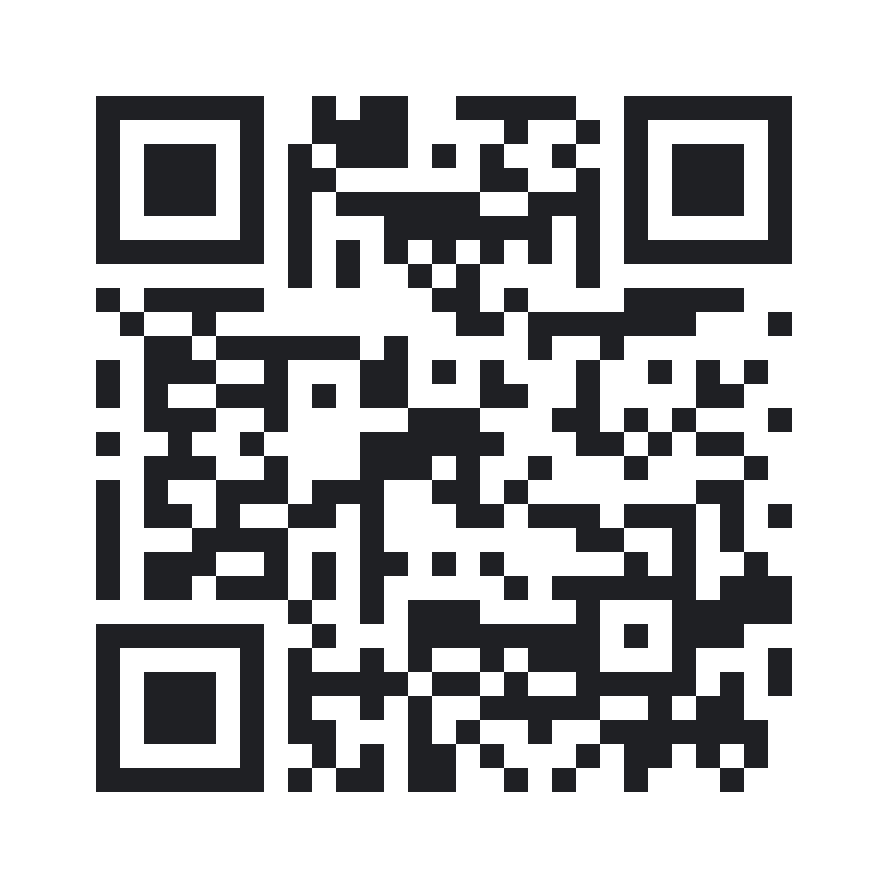
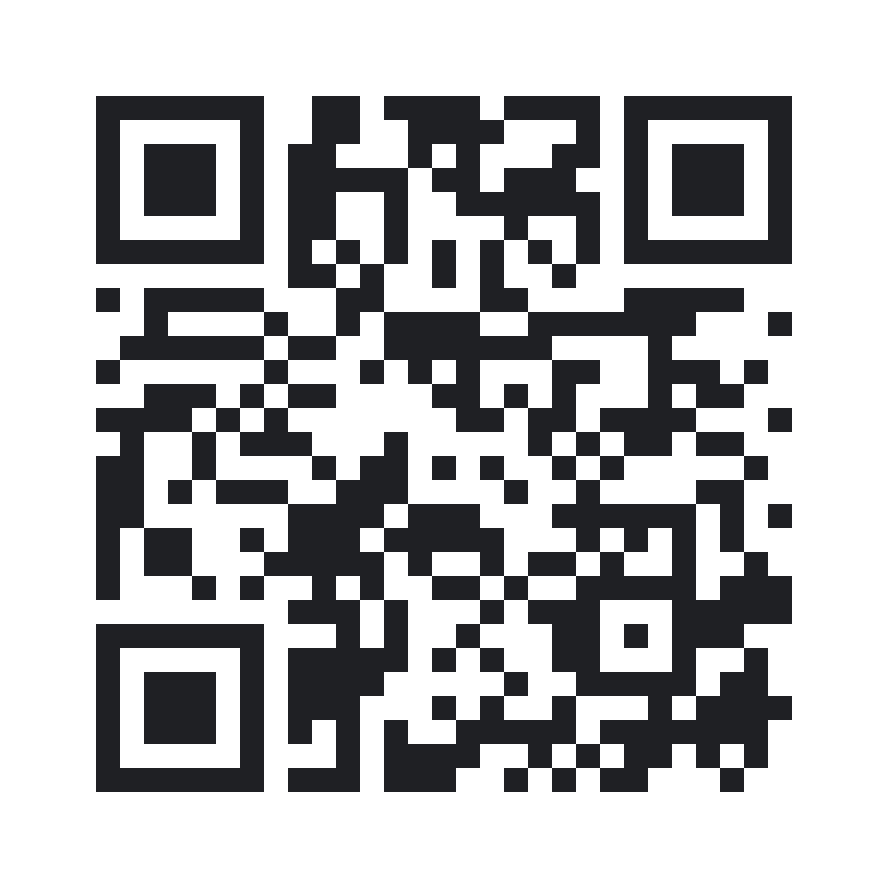
Cambio de dominio: kpk.associates → kpkwellness.com (#51)
* feat: unlock all 20 recipes (no access code required)

Add every recipe id to freeRecipes so the recipes page shows all 20
dishes in full to every visitor. Previously only 3 were free and the
other 17 were gated behind an access code that could not be redeemed
(the Worker has no /verify-access endpoint), making them unreadable.

All existing recipes are kept; only the free/locked config changed.

Claude-Session: https://claude.ai/code/session_014P2hn7681L42VPigtzrpuH

* feat: allFree flag + Silver agent recipe-publishing spec

Add an allFree flag to recipe-config.json (honored by recipes.js) so the
whole collection is unlocked and newly published recipes are visible
immediately, without a second commit to freeRecipes.

Document how Karina's OpenAI agent (Silver) publishes recipes from
ChatGPT to the live site via the Worker's existing /commit endpoint,
which already accepts plain markdown and commits it to main. Includes
the recipe format contract, a GPT Action OpenAPI schema, and the agent
instructions. No secrets are stored here.

Claude-Session: https://claude.ai/code/session_014P2hn7681L42VPigtzrpuH

* feat: propuesta Casa de la Cultura Playas como pagina privada

Agrega /playas/ayuntamiento-cultural con la propuesta comercial de Karina
Paz Kennedy para operar un bar gastronomico en Casa de la Cultura Playas,
mas el PDF descargable.

La pagina lleva noindex/nofollow y no se enlaza desde ningun menu: es un
[…]

diff --git a/card/index.html b/card/index.html
@@ -21,9 +21,9 @@
 <meta property="og:title" content="Karina Paz Kennedy · KPK Wellness">
 <meta property="og:description" content="Chef, Yoga Instructor & Wellness Host. Eat well. Move with intention. Live beautifully.">
 <meta property="og:type" content="profile">
-<meta property="og:url" content="https://kpk.associates/card/">
-<meta property="og:image" content="https://kpk.associates/card/og-card.jpg">
-<meta property="og:image:secure_url" content="https://kpk.associates/card/og-card.jpg">
+<meta property="og:url" content="https://kpkwellness.com/card/">
+<meta property="og:image" content="https://kpkwellness.com/card/og-card.jpg">
+<meta property="og:image:secure_url" content="https://kpkwellness.com/card/og-card.jpg">
 <meta property="og:image:type" content="image/jpeg">
 <meta property="og:image:width" content="1200">
 <meta property="og:image:height" content="630">
@@ -31,7 +31,7 @@
 <meta name="twitter:card" content="summary_large_image">
 <meta name="twitter:title" content="Karina Paz Kennedy · KPK Wellness">
 <meta name="twitter:description" content="Chef, Yoga Instructor & Wellness Host.">
-<meta name="twitter:image" content="https://kpk.associates/card/og-card.jpg">
+<meta name="twitter:image" content="https://kpkwellness.com/card/og-card.jpg">
 
 <link rel="preconnect" href="https://fonts.googleapis.com">
 <link rel="preconnect" href="https://fonts.gstatic.com" crossorigin>
@@ -344,15 +344,15 @@
         <span class="link__chev"><svg width="16" height="16" viewBox="0 0 24 24" fill="none" stroke="currentColor" stroke-width="2.2" stroke-linecap="round" stroke-linejoin="round"><path d="M9 18l6-6-6-6"/></svg></span>
       </a>
 
-      <a class="link fade" style="animation-delay:.36s" href="mailto:karina@kpk.associates">
+      <a class="link fade" style="animation-delay:.36s" href="mailto:karina@kpkwellness.com">
         <span class="link__icon" style="color:var(--accent)"><svg viewBox="0 0 24 24" fill="none" stroke="currentColor" stroke-width="1.9" stroke-linecap="round" stroke-linejoin="round"><rect x="2" y="4" width="20" height="16" rx="2.5"/><path d="m3 6 9 7 9-7"/></svg></span>
-        <span class="link__txt"><b>Email</b><span>karina@kpk.associates</span></span>
+        <span class="link__txt"><b>Email</b><span>karina@kpkwellness.com</span></span>
         <span class="link__chev"><svg width="16" height="16" viewBox="0 0 24 24" fill="none" stroke="currentColor" stroke-width="2.2" stroke-linecap="round" stroke-linejoin="round"><path d="M9 18l6-6-6-6"/></svg></span>
       </a>
 
       <a class="link fade" style="animation-delay:.42s" href="/" target="_blank" rel="noopener">
         <span class="link__icon" style="color:var(--accent)"><svg viewBox="0 0 24 24" fill="none" stroke="currentColor" stroke-width="1.9" stroke-linecap="round" stroke-linejoin="round"><circle cx="12" cy="12" r="10"/><path d="M2 12h20M12 2a15.3 15.3 0 0 1 4 10 15.3 15.3 0 0 1-4 10 15.3 15.3 0 0 1-4-10 15.3 15.3 0 0 1 4-10z"/></svg></span>
-        <span class="link__txt"><b>Website</b><span>kpk.associates</span></span>
+        <span class="link__txt"><b>Website</b><span>kpkwellness.com</span></span>
         <span class="link__chev"><svg width="16" height="16" viewBox="0 0 24 24" fill="none" stroke="currentColor" stroke-width="2.2" stroke-linecap="round" stroke-linejoin="round"><path d="M9 18l6-6-6-6"/></svg></span>
       </a>
     </div>
@@ -522,7 +522,7 @@
         'ORG:KPK Wellness Associates',
         'TITLE:Chef, Yoga Instructor & Wellness Host',
         'TEL;TYPE=CELL:+526643640788',
-        'EMAIL;TYPE=INTERNET:karina@kpk.associates',
+        'EMAIL;TYPE=INTERNET:karina@kpkwellness.com',
         'URL:https://www.instagram.com/karinapazk/'
       ];
       if (photoLine) lines.push(photoLine);

diff --git a/cotizacion.html b/cotizacion.html
@@ -1860,7 +1860,7 @@
     var fin = c.fin || c.inicio;
     var lineas = [
       "BEGIN:VCALENDAR", "VERSION:2.0", "PRODID:-//KPK Wellness//Cotizador//ES", "BEGIN:VEVENT",
-      "UID:" + c.slug + "@kpk.associates",
+      "UID:" + c.slug + "@kpkwellness.com",
       "DTSTART:" + fmt(c.inicio), "DTEND:" + fmt(fin),
       "SUMMARY:" + tx(c.titulo, L) + " · Chef Karina Paz Kennedy",
       "LOCATION:" + tx(c.lugar, L),
@@ -1870,7 +1870,7 @@
     return "data:text/calendar;charset=utf-8," + encodeURIComponent(lineas.join("\r\n"));
   }
 
-  /* "Enviar cotización": correo (Resend, desde karina@kpk.associates) y
+  /* "Enviar cotización": correo (Resend, desde karina@kpkwellness.com) y
      WhatsApp (se abre en su teléfono con el mensaje escrito) en un solo paso. */
   function enviarAlCliente() {
     var c = cotizacionActiva();
@@ -1892,7 +1892,7 @@
         '<label class="env-op"><input type="checkbox" name="wa"' + (tel ? " checked" : " disabled") + "> WhatsApp" +
           "<small>" + (tel ? "+" + esc(tel) : "Falta el WhatsApp del cliente (Editar → Evento)") + "</small></label>" +
         '<label class="env-op"><input type="checkbox" name="correo"' + (correo ? " checked" : " disabled") + "> Correo" +
-          "<small>" + (correo ? esc(correo) + " · sale desde karina@kpk.associates" : "Falta el correo del cliente (Editar → Evento)") + "</small></label>" +
+          "<small>" + (correo ? esc(correo) + " · sale desde karina@kpkwellness.com" : "Falta el correo del cliente (Editar → Evento)") + "</small></label>" +
         '<label>Mensaje<textarea name="mensaje" rows="4" style="font:inherit;font-size:16px;padding:10px 12px;border:1px solid var(--linea);border-radius:10px;width:100%;box-sizing:border-box">' + esc(texto) + "</textarea></label>" +
         '<p class="fac-nota" style="font-size:.84rem">Si hiciste cambios, guarda antes: el cliente abre la versión publicada.</p>' +
         '<p class="fac-aviso" role="status" hidden></p>' +
@@ -2212,7 +2212,7 @@
             bi("Asunto", (chef.correoReserva || {}).asunto, "chef.correoReserva.asunto") +
             bi("Cuerpo · puedes usar {nombre} {evento} {fecha} {horario} {lugar} {anticipo}", (chef.correoReserva || {}).cuerpo, "chef.correoReserva.cuerpo") +
             '<div class="aviso">Vacío = se usa el texto sugerido ("Recibimos tu anticipo. Tu fecha queda reservada… Nos vemos ahí."). ' +
-              "Sale desde karina@kpk.associates; las respuestas del cliente llegan a tu correo.</div>" +
+              "Sale desde karina@kpkwellness.com; las respuestas del cliente llegan a tu correo.</div>" +
             '<div class="marca">Tu foto</div>' + fotoCampo(chef.foto, "chef.foto") +
             '<div class="aviso">Abajo de cada cotización apareces tú: "Hola, soy Karina Kennedy". Las preguntas que ' +
               "ve el cliente son estas; si las dejas vacías se usan las sugeridas.</div>" +

diff --git a/index.html b/index.html
@@ -9,9 +9,9 @@
 <meta property="og:title" content="KPK Wellness — Karina Paz Kennedy">
 <meta property="og:description" content="Chef, Yoga Instructor & Wellness Host. Eat well. Move with intention. Live beautifully.">
 <meta property="og:type" content="website">
-<meta property="og:url" content="https://kpk.associates/">
-<meta property="og:image" content="https://kpk.associates/card/og-card.jpg">
-<meta property="og:image:secure_url" content="https://kpk.associates/card/og-card.jpg">
+<meta property="og:url" content="https://kpkwellness.com/">
+<meta property="og:image" content="https://kpkwellness.com/card/og-card.jpg">
+<meta property="og:image:secure_url" content="https://kpkwellness.com/card/og-card.jpg">
 <meta property="og:image:type" content="image/jpeg">
 <meta property="og:image:width" content="1200">
 <meta property="og:image:height" content="630">
@@ -19,7 +19,7 @@
 <meta name="twitter:card" content="summary_large_image">
 <meta name="twitter:title" content="KPK Wellness — Karina Paz Kennedy">
 <meta name="twitter:description" content="Chef, Yoga Instructor & Wellness Host.">
-<meta name="twitter:image" content="https://kpk.associates/card/og-card.jpg">
+<meta name="twitter:image" content="https://kpkwellness.com/card/og-card.jpg">
 <link rel="preconnect" href="https://fonts.googleapis.com">
 <link rel="preconnect" href="https://fonts.gstatic.com" crossorigin>
 <link href="https://fonts.googleapis.com/css2?family=Cormorant+Garamond:ital,wght@0,400;0,500;0,600;0,700;1,400;1,500&family=Inter:wght@300;400;500;600;700&display=swap" rel="stylesheet">
@@ -421,7 +421,7 @@
         <div class="footer-socials">
           <a href="https://www.instagram.com/karinapazk/" class="social-link" aria-label="Instagram" target="_blank">📷</a>
           <a href="https://wa.me/526643640788" class="social-link" aria-label="WhatsApp" target="_blank">💬</a>
-          <a href="mailto:join@kpk.associates" class="social-link" aria-label="Email">✉</a>
+          <a href="mailto:join@kpkwellness.com" class="social-link" aria-label="Email">✉</a>
         </div>
         <div class="footer-tagline">
           <span lang="en">Eat well. Move with intention. Live beautifully.</span>
@@ -449,7 +449,7 @@
       <div class="footer-col">
         <h4 lang="en">Contact</h4><h4 lang="es">Contacto</h4>
         <ul>
-          <li><a href="mailto:join@kpk.associates">join@kpk.associates</a></li>
+          <li><a href="mailto:join@kpkwellness.com">join@kpkwellness.com</a></li>
           <li><a href="https://wa.me/526643640788" target="_blank">WhatsApp</a></li>
           <li><a href="https://www.instagram.com/karinapazk/" target="_blank">Instagram</a></li>
           <li><a href="#contact" lang="en">Book Now</a><a href="#contact" lang="es">Reservar</a></li>

diff --git a/functions/_lib/correo.js b/functions/_lib/correo.js
@@ -29,14 +29,14 @@ export function correoDe(c, chef, extra) {
   const plantilla = chef?.correoReserva || {};
   const asunto = rellenar(tx(plantilla.asunto, L) || tx(PLANTILLA_BASE.asunto, L), c, L, extra);
   const texto = rellenar(tx(plantilla.cuerpo, L) || tx(PLANTILLA_BASE.cuerpo, L), c, L, extra);
-  const enlace = `https://kpk.associates/cotizacion?c=${encodeURIComponent(c.slug)}-view`;
+  const enlace = `https://kpkwellness.com/cotizacion?c=${encodeURIComponent(c.slug)}-view`;
   const html = `<!doctype html><html><body style="margin:0;background:#F7F5F1;font-family:Inter,-apple-system,Helvetica,Arial,sans-serif;color:#1F2024">
 <div style="max-width:560px;margin:0 auto;padding:28px 20px">
   <div style="width:40px;height:2px;background:#7A9E8E;margin-bottom:18px"></div>
   <div style="font-family:'Cormorant Garamond',Georgia,serif;font-size:28px;font-weight:600;line-height:1.1;margin-bottom:18px">${esc(tx(c.titulo, L))}</div>
   <div style="white-space:pre-wrap;font-size:16px;line-height:1.6">${esc(texto)}</div>
   <p style="margin:26px 0 0"><a href="${esc(enlace)}" style="color:#4F7566">${L === 'en' ? 'See the quote' : 'Ver la cotización'}</a></p>
-  <p style="margin:26px 0 0;font-size:12px;color:#5C5E66">${esc(chef?.nombre || 'Chef Karina Paz Kennedy')} · kpk.associates</p>
+  <p style="margin:26px 0 0;font-size:12px;color:#5C5E66">${esc(chef?.nombre || 'Chef Karina Paz Kennedy')} · kpkwellness.com</p>
 </div></body></html>`;
   return { asunto, texto, html };
 }
@@ -80,7 +80,7 @@ export function correoCotizacion(c, chef, { L = 'es', enlace, imagen, anticipo, 
       <p style="margin:12px 0 0"><a href="${esc(enlace)}&pdf=1" style="color:#4F7566;font-weight:600;font-size:14px">${esc(T.pdf)}</a></p>
       <p style="font-size:14px;color:#55565B;margin:22px 0 0">${esc(T.dudas)}</p>
       <p style="font-family:'Cormorant Garamond',Georgia,serif;font-size:20px;margin:18px 0 0">${esc(firma)}</p>
-      <p style="font-size:12px;color:#8A8B90;margin:4px 0 0">kpk.associates</p>
+      <p style="font-size:12px;color:#8A8B90;margin:4px 0 0">kpkwellness.com</p>
     </div>
   </div>
 </div></body></html>`;
@@ -93,7 +93,7 @@ export async function enviarResend(env, { para, asunto, texto, html, responderA,
     method: 'POST',
     headers: { authorization: `Bearer ${env.RESEND_API_KEY}`, 'content-type': 'application/json' },
     body: JSON.stringify({
-      from: remitente || env.CORREO_REMITENTE || 'Karina Paz Kennedy <karina@kpk.associates>',
+      from: remitente || env.CORREO_REMITENTE || 'Karina Paz Kennedy <karina@kpkwellness.com>',
       to: Array.isArray(para) ? para : [para],
       ...(adjuntos && adjuntos.length ? { attachments: adjuntos } : {}),
       ...(responderA ? { reply_to: responderA } : {}),

diff --git a/links/index.html b/links/index.html
@@ -6,7 +6,7 @@
 <title>Karina Paz Kennedy · Mira todos mis links</title>
 <meta name="description" content="Catering, eventos de yoga y contacto directo con Chef Karina Paz Kennedy. Tijuana · San Diego.">
 <meta property="og:type" content="website">
-<meta property="og:url" content="https://kpk.associates/links">
+<meta property="og:url" content="https://kpkwellness.com/links">
 <meta property="og:title" content="Karina Paz Kennedy · Mira todos mis links">
 <meta property="og:description" content="Catering, eventos de yoga, mi tarjeta y WhatsApp directo. Tijuana · San Diego.">
 <meta property="og:image" content="https://d2ol7oe51mr4n9.cloudfront.net/user_3FEaHHOcF04L96gNp2QIPvLVGaA/61119063-ccc8-4d35-82ce-d065276ab2cc.jpg">
@@ -131,7 +131,7 @@
   </nav>
 
   <footer>
-    <span><a href="/" data-t="sitio">kpk.associates</a></span>
+    <span><a href="/" data-t="sitio">kpkwellness.com</a></span>
     <span class="hecho"><span data-t="hecho">Todo hecho por Maxify Technologies</span> · <a href="https://beefup.tech" target="_blank" rel="noopener">Beef Up</a></span>
   </footer>
 </main>
@@ -141,11 +141,11 @@
   var T = {
     es: { rol: 'Chef · Instructora de yoga · Wellness', catering: 'Pide tu catering', cateringD: 'Cuéntame de tu evento y te mando tu cotización',
       yoga: 'Organiza un evento de yoga', yogaD: 'Clases privadas, grupos, empresas y retiros', tarjeta: 'Mi tarjeta de presentación',
-      tarjetaD: 'Guarda mi contacto', wa: 'Escríbeme por WhatsApp', waD: 'Te contesto directo', sitio: 'kpk.associates', hecho: 'Todo hecho por Maxify Technologies',
+      tarjetaD: 'Guarda mi contacto', wa: 'Escríbeme por WhatsApp', waD: 'Te contesto directo', sitio: 'kpkwellness.com', hecho: 'Todo hecho por Maxify Technologies',
       waTexto: 'Hola Karina, te encontré en Instagram.' },
     en: { rol: 'Chef · Yoga instructor · Wellness', catering: 'Book catering', cateringD: 'Tell me about your event and I’ll send you a quote',
       yoga: 'Plan a yoga event', yogaD: 'Private classes, groups, companies and retreats', tarjeta: 'My business card',
-      tarjetaD: 'Save my contact', wa: 'Message me on WhatsApp', waD: 'I reply directly', sitio: 'kpk.associates', hecho: 'All made by Maxify Technologies',
+      tarjetaD: 'Save my contact', wa: 'Message me on WhatsApp', waD: 'I reply directly', sitio: 'kpkwellness.com', hecho: 'All made by Maxify Technologies',
       waTexto: 'Hi Karina, I found you on Instagram.' }
   };
   function poner(L) {

diff --git a/qr/index.html b/qr/index.html
@@ -111,17 +111,17 @@
 
   // Los destinos de siempre. "Otro" deja escribir cualquier link.
   var DESTINOS = [
-    { id: 'catering', nombre: 'Catering', link: 'https://kpk.associates/catering',
+    { id: 'catering', nombre: 'Catering', link: 'https://kpkwellness.com/catering',
       arriba: 'CHEF KARINA PAZ KENNEDY', titulo: 'Pide tu catering', sub: 'Escanea y cuéntame de tu evento', pie: ZONA },
-    { id: 'yoga', nombre: 'Yoga', link: 'https://kpk.associates/catering?tipo=yoga',
+    { id: 'yoga', nombre: 'Yoga', link: 'https://kpkwellness.com/catering?tipo=yoga',
       arriba: 'KARINA PAZ KENNEDY', titulo: 'Organiza tu yoga', sub: 'Escanea y cuéntame de tu grupo', pie: 'Clases privadas, grupos, empresas y retiros' },
-    { id: 'links', nombre: 'Mis links', link: 'https://kpk.associates/links',
+    { id: 'links', nombre: 'Mis links', link: 'https://kpkwellness.com/links',
       arriba: 'KARINA PAZ KENNEDY', titulo: 'Mira mis links', sub: 'Catering, yoga, mi tarjeta y WhatsApp', pie: 'Tijuana · San Diego' },
-    { id: 'tarjeta', nombre: 'Mi tarjeta', link: 'https://kpk.associates/card/',
-      arriba: 'CHEF KARINA PAZ KENNEDY', titulo: 'Guarda mi contacto', sub: 'Escanea mi tarjeta digital', pie: 'karina@kpk.associates' },
-    { id: 'catering-en', nombre: 'Catering (EN)', link: 'https://kpk.associates/catering?lang=en',
+    { id: 'tarjeta', nombre: 'Mi tarjeta', link: 'https://kpkwellness.com/card/',
+      arriba: 'CHEF KARINA PAZ KENNEDY', titulo: 'Guarda mi contacto', sub: 'Escanea mi tarjeta digital', pie: 'karina@kpkwellness.com' },
+    { id: 'catering-en', nombre: 'Catering (EN)', link: 'https://kpkwellness.com/catering?lang=en',
       arriba: 'CHEF KARINA PAZ KENNEDY', titulo: 'Book your catering', sub: 'Scan and tell me about your event', pie: 'Baja California · San Diego · 10 to 100 guests' },
-    { id: 'otro', nombre: 'Otro link', link: 'https://kpk.associates/',
+    { id: 'otro', nombre: 'Otro link', link: 'https://kpkwellness.com/',
       arriba: 'KARINA PAZ KENNEDY', titulo: 'Escanéame', sub: '', pie: '' }
   ];
 
@@ -158,7 +158,7 @@
 
   function pintar() {
     var ctx = $('lienzo').getContext('2d');
-    var link = $('f-link').value.trim() || 'https://kpk.associates/';
+    var link = $('f-link').value.trim() || 'https://kpkwellness.com/';
     var conFoto = $('f-foto').checked;
     var qr;
     try { qr = qrcode(0, conFoto ? 'H' : 'M'); qr.addData(link); qr.make(); }

diff --git a/cards-batch.html b/cards-batch.html
@@ -79,7 +79,7 @@
   </div>
   <div class="note">
     <b>2 fronts (Chef + Yoga) + 1 shared back.</b> Each face = 3.75 × 2.25 in (3.5 × 2 in trim + 0.125 in bleed).
-    QR → live digital card <b>kpk.associates/card/</b> with KPK leaf in the center. Print specs to request:
+    QR → live digital card <b>kpkwellness.com/card/</b> with KPK leaf in the center. Print specs to request:
     <b>satin / soft-touch lamination</b> and a <b>¼″ rounded-corner die-cut</b> (corners are already rounded in the artwork — ask the printer to cut to match). Back is satin-cream.
     Print at 100% scale; tell your printer the quantity split (e.g. 25 + 25 = 50).
   </div>
@@ -88,7 +88,7 @@
 
   <script src="qrcode.js"></script>
   <script>
-    var QR_URL = 'https://kpk.associates/card/';
+    var QR_URL = 'https://kpkwellness.com/card/';
 
     var FRONTS = [
       { persona:'chef', photo:'assets/karina-chef-plating.webp', pos:'center 14%', sub:'Private Chef · Culinary Arts' },
@@ -119,7 +119,7 @@
           '<div class="poet">Eat well. Move with intention.<br>Live beautifully.</div>'+
           '<div class="contacts">'+
             '<div><svg viewBox="0 0 24 24" fill="currentColor"><path d="M.06 24l1.69-6.16A11.86 11.86 0 0 1 .14 11.9 11.93 11.93 0 0 1 12.06 0a11.93 11.93 0 0 1 8.42 20.36A11.93 11.93 0 0 1 6.2 22.31zm6.6-3.8l.36.22a9.9 9.9 0 0 0 5.04 1.38h.01a9.91 9.91 0 1 0-8.4-15.16 9.86 9.86 0 0 0-1.5 5.26 9.83 9.83 0 0 0 1.51 5.26l.24.38-1 3.65z"/></svg> WhatsApp · +52 664 364 0788</div>'+
-            '<div><svg viewBox="0 0 24 24" fill="none" stroke="currentColor" stroke-width="2" stroke-linecap="round" stroke-linejoin="round"><rect x="2" y="4" width="20" height="16" rx="2.5"/><path d="m3 6 9 7 9-7"/></svg> karina@kpk.associates</div>'+
+            '<div><svg viewBox="0 0 24 24" fill="none" stroke="currentColor" stroke-width="2" stroke-linecap="round" stroke-linejoin="round"><rect x="2" y="4" width="20" height="16" rx="2.5"/><path d="m3 6 9 7 9-7"/></svg> karina@kpkwellness.com</div>'+
             '<div><svg viewBox="0 0 24 24" fill="none" stroke="currentColor" stroke-width="2" stroke-linecap="round" stroke-linejoin="round"><rect x="2" y="2" width="20" height="20" rx="5"/><circle cx="12" cy="12" r="4"/><circle cx="17.5" cy="6.5" r="1"/></svg> @karinapazk</div>'+
           '</div>'+
         '</div>'+

diff --git a/print-card.html b/print-card.html
@@ -175,7 +175,7 @@
           <div class="poet">Eat well. Move with intention.<br>Live beautifully.</div>
           <div class="contacts">
             <div><svg viewBox="0 0 24 24" fill="currentColor"><path d="M.06 24l1.69-6.16A11.86 11.86 0 0 1 .14 11.9 11.93 11.93 0 0 1 12.06 0a11.93 11.93 0 0 1 8.42 20.36A11.93 11.93 0 0 1 6.2 22.31zm6.6-3.8l.36.22a9.9 9.9 0 0 0 5.04 1.38h.01a9.91 9.91 0 1 0-8.4-15.16 9.86 9.86 0 0 0-1.5 5.26 9.83 9.83 0 0 0 1.51 5.26l.24.38-1 3.65z"/></svg> +52 664 364 0788</div>
-            <div><svg viewBox="0 0 24 24" fill="none" stroke="currentColor" stroke-width="2" stroke-linecap="round" stroke-linejoin="round"><rect x="2" y="4" width="20" height="16" rx="2.5"/><path d="m3 6 9 7 9-7"/></svg> karina@kpk.associates</div>
+            <div><svg viewBox="0 0 24 24" fill="none" stroke="currentColor" stroke-width="2" stroke-linecap="round" stroke-linejoin="round"><rect x="2" y="4" width="20" height="16" rx="2.5"/><path d="m3 6 9 7 9-7"/></svg> karina@kpkwellness.com</div>
             <div><svg viewBox="0 0 24 24" fill="none" stroke="currentColor" stroke-width="2" stroke-linecap="round" stroke-linejoin="round"><rect x="2" y="2" width="20" height="20" rx="5"/><circle cx="12" cy="12" r="4"/><circle cx="17.5" cy="6.5" r="1"/></svg> @karinapazk</div>
           </div>
         </div>
@@ -191,7 +191,7 @@
   <script src="qrcode.js"></script>
   <script>
     // The physical card's QR points to the LIVE digital card. Change here if the domain differs.
-    var CARD_URL = 'https://kpk.associates/card/';
+    var CARD_URL = 'https://kpkwellness.com/card/';
     try {
       var qr = qrcode(0, 'H');          // high error correction for print durability
       qr.addData(CARD_URL);

diff --git a/functions/_lib/silver.js b/functions/_lib/silver.js
@@ -26,7 +26,7 @@ const MAX_VUELTAS = 3;
 
 const PUBLICAR = {
   name: 'publicar_receta',
-  description: 'Publica una receta en kpk.associates. Llamar solo después de que Karina confirme. Si el id ya existe, la actualiza.',
+  description: 'Publica una receta en kpkwellness.com. Llamar solo después de que Karina confirme. Si el id ya existe, la actualiza.',
   strict: true,
   schema: {
     type: 'object',
@@ -58,7 +58,7 @@ const ACTUALIZAR = {
 const EN_APP = `
 ## Publicar
 
-Estás dentro de la app de Karina (kpk.associates/app); ella ya inició sesión.
+Estás dentro de la app de Karina (kpkwellness.com/app); ella ya inició sesión.
 Cuando confirme, llama a la herramienta \`publicar_receta\` con titulo, categoria,
 id y markdown (texto plano, sin cercas de código). Tú nunca mandas una ruta de
 archivo: el servidor la arma. Publicar un id que ya existe lo actualiza.
@@ -96,7 +96,7 @@ export function instruccionesCotizador(nombre, contexto) {
   const cot = contexto.cotizacion || {};
   const chef = contexto.chef || {};
   const idioma = contexto.idioma === 'en' ? 'en' : 'es';
-  return `Eres **${nombre}**, asistente de la chef Karina Paz Kennedy dentro de su cotizador (kpk.associates).
+  return `Eres **${nombre}**, asistente de la chef Karina Paz Kennedy dentro de su cotizador (kpkwellness.com).
 Hablas con Karina o con quien administra su negocio, no con el cliente. Responde en español, claro y breve; el contenido
 que vaya al cliente se escribe en el idioma de la cotización (${idioma === 'en' ? 'inglés' : 'español'}).
 

diff --git a/print.html b/print.html
@@ -262,7 +262,7 @@
             </li>
             <li class="contact-item">
               <svg viewBox="0 0 24 24" fill="none" stroke="currentColor" stroke-width="2"><path d="M4 4h16c1.1 0 2 .9 2 2v12c0 1.1-.9 2-2 2H4c-1.1 0-2-.9-2-2V6c0-1.1.9-2 2-2z"></path><polyline points="22,6 12,13 2,6"></polyline></svg>
-              karina@kpk.associates
+              karina@kpkwellness.com
             </li>
             <li class="contact-item">
               <svg viewBox="0 0 24 24" fill="none" stroke="currentColor" stroke-width="2"><rect x="2" y="2" width="20" height="20" rx="5" ry="5"></rect><path d="M16 11.37A4 4 0 1 1 12.63 8 4 4 0 0 1 16 11.37z"></path><line x1="17.5" y1="6.5" x2="17.51" y2="6.5"></line></svg>
@@ -272,8 +272,8 @@
         </div>
 
         <div class="qr-code">
-          <!-- Generates a QR code linking to the digital card (replace 'https://kpk.associates' with the actual domain where card.html will be hosted) -->
-          <img src="https://api.qrserver.com/v1/create-qr-code/?size=300x300&data=https://kpk.associates/card.html" alt="QR Code">
+          <!-- Generates a QR code linking to the digital card (replace 'https://kpkwellness.com' with the actual domain where card.html will be hosted) -->
+          <img src="https://api.qrserver.com/v1/create-qr-code/?size=300x300&data=https://kpkwellness.com/card.html" alt="QR Code">
         </div>
       </div>
     </div>

diff --git a/card.html b/card.html
@@ -349,7 +349,7 @@
     </a>
 
     <!-- Email -->
-    <a href="mailto:karina@kpk.associates" class="link-btn">
+    <a href="mailto:karina@kpkwellness.com" class="link-btn">
       <svg viewBox="0 0 24 24" fill="none" stroke="currentColor" stroke-width="2" stroke-linecap="round" stroke-linejoin="round"><path d="M4 4h16c1.1 0 2 .9 2 2v12c0 1.1-.9 2-2 2H4c-1.1 0-2-.9-2-2V6c0-1.1.9-2 2-2z"></path><polyline points="22,6 12,13 2,6"></polyline></svg>
       Email Me
     </a>
@@ -361,13 +361,13 @@
     </a>
 
     <!-- Website -->
-    <a href="https://kpk.associates" class="link-btn">
+    <a href="https://kpkwellness.com" class="link-btn">
       <svg viewBox="0 0 24 24" fill="none" stroke="currentColor" stroke-width="2" stroke-linecap="round" stroke-linejoin="round"><circle cx="12" cy="12" r="10"></circle><line x1="2" y1="12" x2="22" y2="12"></line><path d="M12 2a15.3 15.3 0 0 1 4 10 15.3 15.3 0 0 1-4 10 15.3 15.3 0 0 1-4-10 15.3 15.3 0 0 1 4-10z"></path></svg>
-      kpk.associates
+      kpkwellness.com
     </a>
   </div>
 
-  <p class="footer-text">© 2026 <a href="https://kpk.associates">KPK Wellness Associates</a></p>
+  <p class="footer-text">© 2026 <a href="https://kpkwellness.com">KPK Wellness Associates</a></p>
 </div>
 
 <script>

diff --git a/functions/api/crm/seguimientos.js b/functions/api/crm/seguimientos.js
@@ -56,7 +56,7 @@ export async function onRequestPost({ request, env }) {
     if (!env.RESEND_API_KEY) return json({ success: true, pendientes: lista.length, enviado: false, error: 'Falta RESEND_API_KEY.' });
 
     const origen = new URL(request.url).origin;
-    let karina = 'karina@kpk.associates';
+    let karina = 'karina@kpkwellness.com';
     try { const r = await env.ASSETS.fetch(new URL('/content/cotizaciones.json', origen)); if (r.ok) karina = (await r.json()).chef?.correo || karina; } catch { /* sigue */ }
 
     const filas = lista.map((s) => {
@@ -66,7 +66,7 @@ export async function onRequestPost({ request, env }) {
     });
     await enviarResend(env, {
       para: karina,
-      remitente: 'KPK · Clientes <solicitudes@kpk.associates>',
+      remitente: 'KPK · Clientes <solicitudes@kpkwellness.com>',
       asunto: `Hoy: ${lista.length} ${lista.length === 1 ? 'cliente por atender' : 'clientes por atender'}`,
       texto: [`Buenos días, Karina. Hoy toca escribirle a:`, '', ...filas.map((f) => f.txt), '', `Todos tus clientes: ${origen}/app/clientes/`].join('\n'),
       html: `<!doctype html><html><body style="margin:0;background:#F7F5F1;font-family:Inter,-apple-system,Helvetica,Arial,sans-serif;color:#1F2024">
